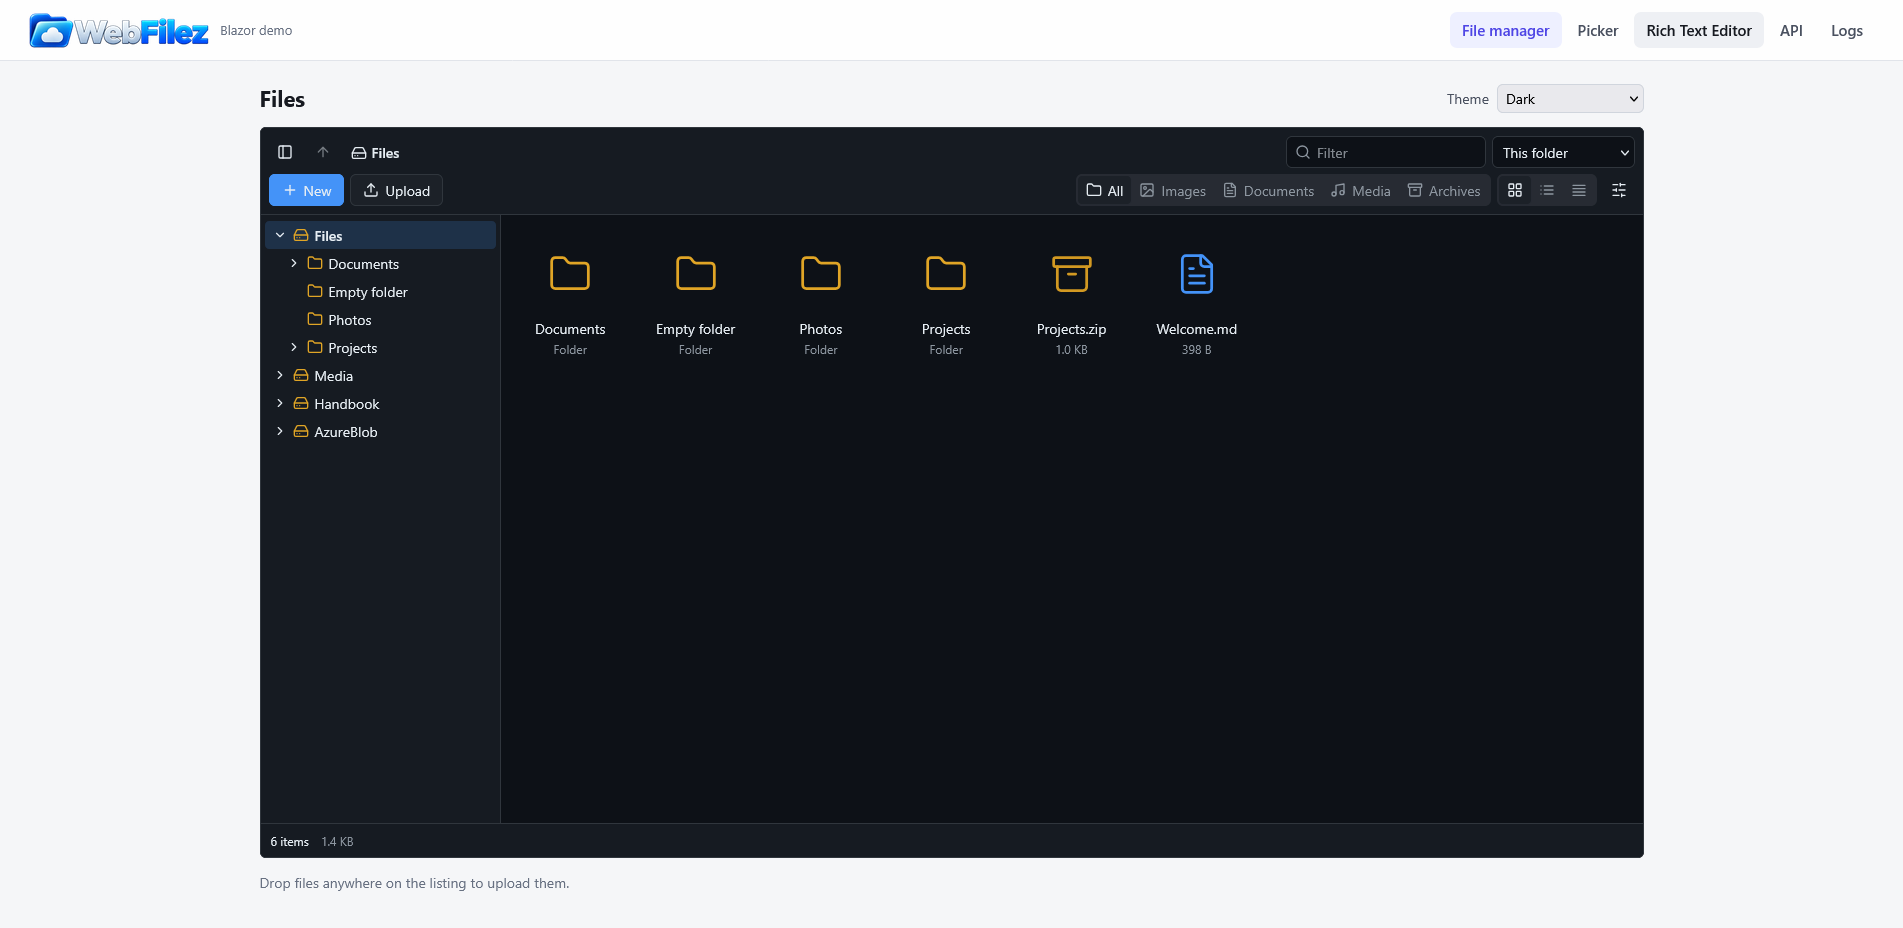
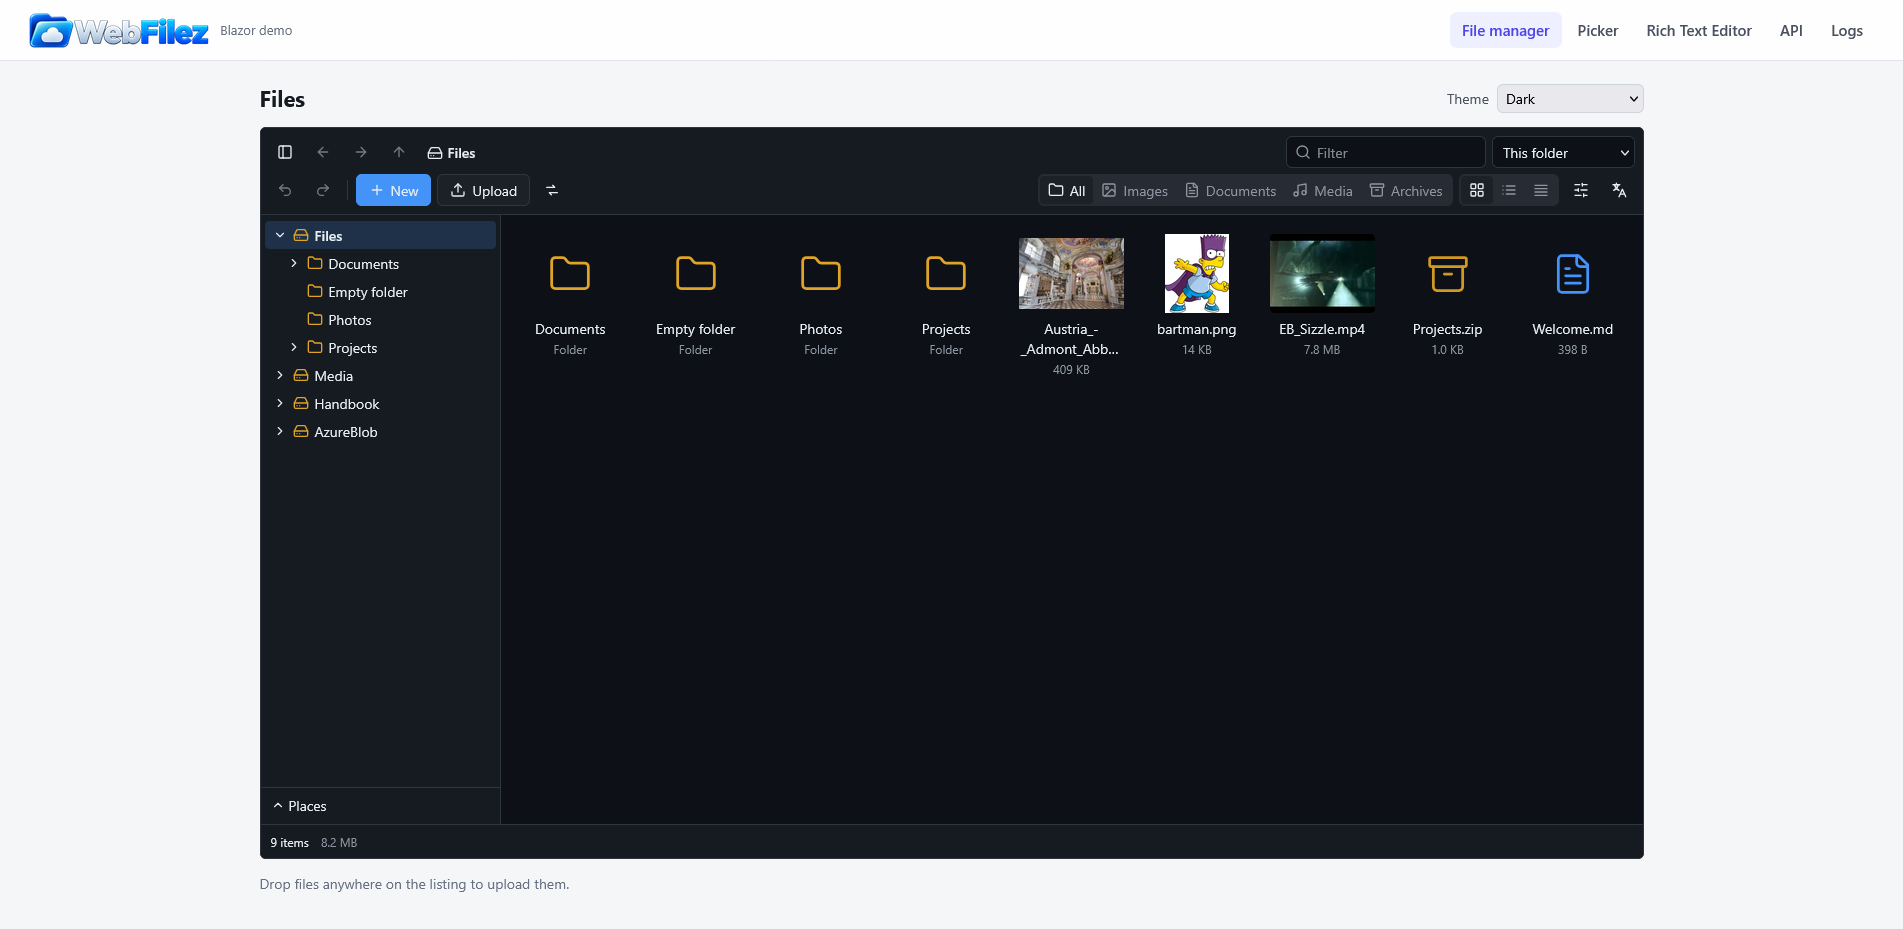
Added/updated screenshots

diff --git a/README.md b/README.md
@@ -3,9 +3,24 @@
 An embeddable web file manager for .NET 10, in the spirit of elFinder and Responsive File Manager. It is written in Blazor and also runs in ASP.NET Core MVC, React, or any HTML page through a custom element.
 
 ## Screenshots
+
+### Dark or Light Themes
+
 <img src="https://github.com/gordon-matt/WebFilez/blob/master/_Misc/Screenshots/Light.png" alt="Light Theme" width="100%" />
 
 <img src="https://github.com/gordon-matt/WebFilez/blob/master/_Misc/Screenshots/Dark.png" alt="Dark Theme" width="100%" />
+
+### Edit images with the FileRobot Plugin
+
+<img src="https://github.com/gordon-matt/WebFilez/blob/master/_Misc/Screenshots/FileRobot.png" alt="FileRobot Plugin" width="100%" />
+
+### Edit documents with the SuperDoc Plugin
+
+<img src="https://github.com/gordon-matt/WebFilez/blob/master/_Misc/Screenshots/SuperDoc.png" alt="SuperDoc Plugin" width="100%" />
+
+### Edit spreadsheets and CSV files with the FortuneSheet Plugin
+
+<img src="https://github.com/gordon-matt/WebFilez/blob/master/_Misc/Screenshots/FortuneSheet.png" alt="FortuneSheet Plugin" width="100%" />
 
 ## Core NuGet Packages
 
